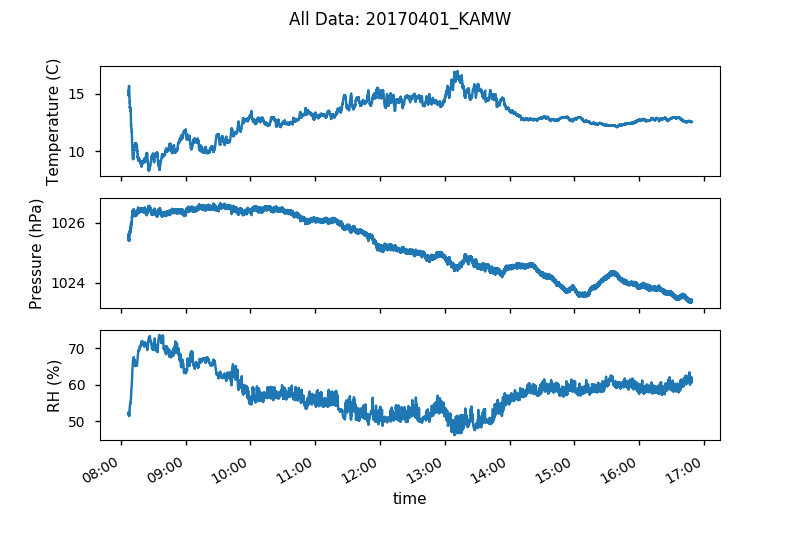
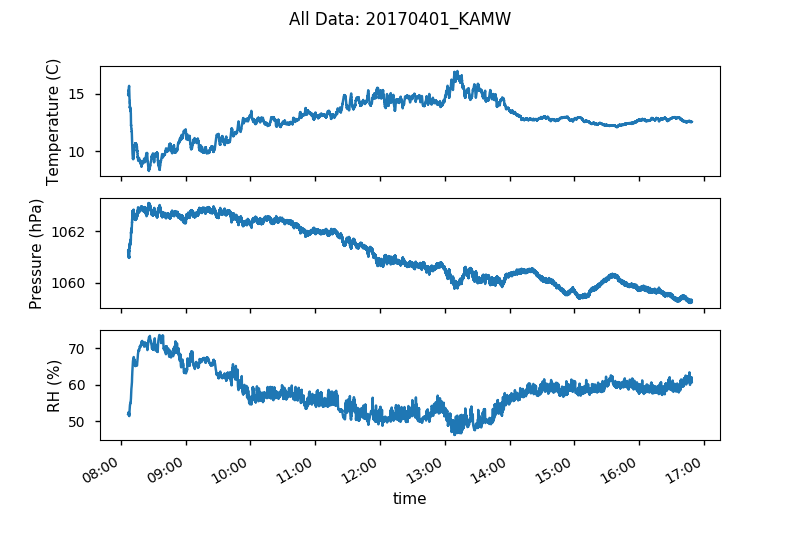
updated ASOS handling of all files to include pressure data. Eventually should include all ASOS data as lists for further flexibility down the line.

diff --git a/main.py b/main.py
@@ -18,6 +18,7 @@ will wait until you tell it when you want it to start. Keep hitting enter to sta
 
 import tkinter as tk
 from tkinter import filedialog
+import numpy as np
 
 # custom modules - should be in file.
 from modules.functions import *
@@ -61,6 +62,24 @@ print("Start time is: {}".format(start_time))
 # data given the input file
 time, temperature, pressure, rel_hum = get_data(file_path, start_time)
 
+# Reduce pressure to sea level
+"""         P_sl = P*exp((z*g)/(R*T))
+            P_sl: sea level pressure
+            P: station pressure
+            z: height MSL
+            g: gravity
+            R: 287
+            T: temperature in Kelvin    """
+for i in range(len(pressure)):
+    pressure_value = pressure[i]
+    z_MSL = 288.036     # MSL of KAMW airport in meters
+    gravity = 9.81      # force of gravity
+    R_gas = 287             # gas constant
+    Temp_Kelvin = temperature[i] + 273.15
+    SL_pressure = pressure_value*(np.exp((z_MSL*gravity)/(R_gas*Temp_Kelvin)))
+    pressure[i] = SL_pressure # change value at index to sea level pressure
+
+
 
 # ========== Plotting Menu. Get user input for plotting ===============
 
@@ -69,15 +88,11 @@ plot_options = [("Temperature", 1),
                 ("Pressure", 2),
                 ("Relative Humidity", 3),
                 ("Plot all", 4),
-                ("Plot and save all of the above", 5)]
+                ("Plot and save all of the above", 5),
+                ("ASOS Comparison", 6)]
 
 user_selection = menu_maker(plot_options)
 
-""" Calm down! Same thing repeated over and over
-    save_place
-    title
-    plotting stuff
-"""
 if user_selection == 1:
     save_path = "{}_temperature.png".format(file_path.split('.')[0])
     title_string = 'Temperature for:' \
@@ -149,3 +164,89 @@ elif user_selection == 5:
                 ylabel2='Pressure (hPa)',
                 ylabel3='RH (%)',
                 save_file=save_path)
+
+# ====================== ASOS Comparison Handling ============================
+
+elif user_selection == 6:
+    input("\nNext Screen is the official file input - any key to continue")
+
+    root = tk.Tk()                      # make it
+    root.withdraw()                     # how to
+    raw_path = filedialog.askopenfile() # what to
+    root.destroy()                      # get rid of
+
+    # This is needed to make the file path work correctly
+    official_file = raw_path.name
+
+    # appended "_ASOS" to data names to avoid potential conflicts
+    times_ASOS, temperature_ASOS, dew_point_ASOS, rel_hum_ASOS, dirct,\
+    ASOS_mslp= parse_ASOS(official_file)
+
+    print("\nASOS data loaded\nWhat would you like to compare?")
+
+    # Creating secondary menu for more user input
+    ASOS_menu = [("Temperature", 1),
+                 ("Pressure",2),
+                 ("Relative Humidity",3),
+                 ("Plot and save all of the above", 4)]
+
+
+    ASOS_selection = menu_maker(ASOS_menu)
+
+    if ASOS_selection == 1:
+
+        # Temperature comparison - NOTE: ASOS data is in F
+        x_plot, y_plot = pair_ASOS(times_ASOS, temperature_ASOS)
+        y_plot = [((x-32)/1.8) for x in y_plot] #x is dummy variable. != x_plot
+
+        # With data, create save path and title to give the functions
+        save_path = "{}_temperature_comparison.png".format(file_path.split('.')[0])
+        title = 'Temperature Comparison:' \
+                '{}'.format(file_path.split('.')[0].split('/')[-1])
+
+        fig = plt.figure()  # This is the 'canvas' of the plot. Used later for changes
+
+        # Actually plotting the data - with labels and everything
+        ax1 = plt.subplot(1, 1, 1)
+        ax1.plot(x_plot, y_plot, label='Official Data')
+        ax1.plot(time, temperature, label='unofficial data')
+
+        # this is what make the x-axis format correctly
+        xfmt = mdate.DateFormatter('%H:%M')
+        ax1.xaxis.set_major_formatter(xfmt)
+        fig.autofmt_xdate()
+
+        plt.title(title)
+        plt.ylabel('Temperature(C)')
+        plt.xlabel('Time (Hour:Minutes)')
+
+        plt.legend()
+        plt.savefig(save_path)
+        plt.show()
+
+    if ASOS_selection == 2:
+        # Pressure comparison: ASOS is sea level pressure
+        """
+        # P_sl = P*exp((z*g)/(R*T))
+            P_sl: sea level pressure
+            P: station pressure
+            z: height MSL
+            g: gravity
+            R: 287
+            T: temperature in Kelvin
+        """
+        print(2)
+
+
+
+    if ASOS_selection == 3:
+        # Relative Humidity comparison
+        print(3)
+
+    if ASOS_selection == 4:
+        # All of the above
+        print(4)
+
+"""
+time, temperature, pressure, rel_hum = get_data(file_path, start_time)
+"""

diff --git a/modules/functions.py b/modules/functions.py
@@ -159,19 +159,25 @@ def parse_ASOS(filepath):
         else:
             raw_data.append(line)
 
-    # Top line is just a header - remove it and save it reference if needed
-    header = raw_data.pop(0)
+    # Top line is just a header - remove it and save it for reference if needed
+    header = raw_data.pop(0).split(',') # saves this as a list
+
 
     # ================== Data Parsing ================================
 
     # Defining emptys lists to be used later to add data
-    station = []
-    temperature = []
-    dew_point = []
-    rel_hum = []
-    dirct = []
-    times = []
+    # many, many more potential varialbes could be plotted
+    """
+    station,valid,tmpf, dwpf, relh, drct, sknt, p01i, alti, mslp, vsby, gust, skyc1, skyc2, skyc3, skyc4, skyl1, skyl2, skyl3, skyl4, presentwx, metar
+    """
 
+    valid = []
+    station = []
+    tempf = []
+    dwpf = []
+    relh = []
+    dirct = []
+    mslp = []
 
     # Quick function that inserts None if data is missing - lots of missing data in files.
     def data_adder(item, parent_list):
@@ -183,14 +189,18 @@ def parse_ASOS(filepath):
 
     # For each line, add the variables to the appropriate list
     for line in raw_data:
+
+        # sample is just a list version of the line
         sample = line.split(',')  # Turns into list - makes the parsing messy because of indexing
 
+
         data_adder(sample[0], station)
-        time = sample[1]  # this is indexing odd.
-        data_adder(sample[2], temperature)
-        data_adder(sample[3], dew_point)
-        data_adder(sample[4], rel_hum)
+        time = sample[1]  # this indexing is odd
+        data_adder(sample[2], tempf)
+        data_adder(sample[3], dwpf)
+        data_adder(sample[4], relh)
         data_adder(sample[5], dirct)
+        data_adder(sample[9], mslp)
 
         # create time variable to create datetime object
         YMD = time.split(' ')[0].split('-')
@@ -201,8 +211,28 @@ def parse_ASOS(filepath):
         Hour = (int(HM[0]))
         Minute = (int(HM[1]))
 
-        times.append(datetime.datetime(Year, Month, Day, Hour, Minute, 0))
+        valid.append(datetime.datetime(Year, Month, Day, Hour, Minute, 0))
 
 
-    return times, temperature, dew_point, rel_hum, dirct
+    return valid, tempf, dwpf, relh, dirct, mslp
+
+
+def pair_ASOS(times_in, variable_in):
+    """
+    Fuction takes the two variables and check to make sure that the variable
+    assosciated with the time matches
+    """
+    plot_times = []
+    plot_variable = []
+
+    # runs through the list by index rather than actual value so when it
+    # comes back with a value, both the valua and associated time can be added to the list
+
+    for i in range(len(variable_in)):
+        if variable_in[i] is not None:
+            plot_variable.append(float(variable_in[i]))
+            plot_times.append(times_in[i])
+
+    return plot_times, plot_variable
+
 

diff --git a/ASOS_plotting.py b/ASOS_plotting.py
@@ -1,0 +1,57 @@
+"""
+This is a script that will plot ASOS data vs recorded data.
+"""
+
+import tkinter as tk
+from tkinter import filedialog
+
+import datetime
+import matplotlib.dates as mdate
+import matplotlib.pyplot as plt
+
+from modules.functions import *
+from modules.menus import *
+
+# ===================== ASOS file handling =========================
+
+input("\nNext Screen is the official file input - any key to continue")
+
+# This file has to be downloaded as a CSV file to work
+# File location from user using pretty GUI
+root = tk.Tk()                      # make it
+root.withdraw()                     # how to
+raw_path = filedialog.askopenfile() # what to
+root.destroy()                      # get rid of
+
+# This is needed to make the file path work correctly
+official_file = raw_path.name
+
+# One line to hide lots of code needed to parse data out
+times, temperature, dew_point, rel_hum, dirct, mslp = parse_ASOS(official_file)
+
+# Imported function that pairs matching data - lots of missing data
+plot_times, plot_variable = pair_ASOS(times, mslp)
+
+# =========================== Menu for what to plot =====================
+
+# With data, create save path and title to give the functions
+
+title = 'Test Plotting'
+
+fig = plt.figure()  # This is the 'canvas' of the plot. Used later for changes
+
+# Actually plotting the data - with labels and everything
+ax1 = plt.subplot(1, 1, 1)
+ax1.plot(plot_times, plot_variable, label='Official Data')
+
+# this is what make the x-axis format correctly
+xfmt = mdate.DateFormatter('%H:%M')
+ax1.xaxis.set_major_formatter(xfmt)
+fig.autofmt_xdate()
+
+plt.title(title)
+plt.ylabel('Test Plot')
+plt.xlabel('Test Plot Time')
+
+plt.legend()
+plt.show()

diff --git a/README.md b/README.md
@@ -10,28 +10,18 @@ for Arduino. The data is processed in Python language.
 # Project Notes
 
 ## Physical Build issues
-The current designs seems to store a lot of heat in the system, making it much slower to
-respond than the BME280 on its own. Need to create remote sensor to reduce the heat absorbed 
-by the sensor from the rest of the sensing equipments. This is a small error, but will skew 
-the data from expected. "Bathroom_fan_pressure_test" is a good example as the station had 
-be brought inside minutes before the fan pressure test and it had yet to reach steady state. 
-
-Additionally, the heating of the surroundings and radiation into the box are causing significant 
-fluctuations and bizarre behaviour.  
-
-Will attempt to fix this by mounting the sensor on a small standoff above 
-or to the side of the board. Will test before and after for results
+Standoff could be much larger. Due to the short size of the stand off,
+radiation from the ground is still an issue. Attempting to minimize this by
+placing sensor on all objects.
 
 ## Things to do
+Get more data. Days of data to be analyzed. Keep the data coming in.
 
-Working on limiting the scope of the project. Example: do not need to have
-every possible option included to make this work. 
+Eventually should update sensor to record an average of values instead of
+instaneous value. Would make graphs a little better. Can do this on the backend
+but it's a little more messy and tends to clutter the code base
 
-### Make file to plot single varible
 
-This should be easy - make a temperature only graph
-                    - make a pressure only graph
-                    - make a humidity only graph
 
 # Other Interesting Links
 Home made sonic anemometer: https://soldernerd.com/arduino-ultrasonic-anemometer/
